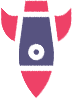
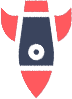
fixed scrolling + changed color of lightmode rocket

diff --git a/src/classes/GameState.ts b/src/classes/GameState.ts
@@ -67,22 +67,19 @@ export default class GameState {
     if (this.keyPress.keys.click.pressed) this.spaceship.shoot();
 
     // handle scroll
-    const distanceFromTopOfDocumentToLastScreen = Math.floor(
-      document.documentElement.scrollHeight -
-        window.innerHeight -
-        window.scrollY
+    const distanceFromTopViewportToBottomOfDoc = Math.floor(
+      document.documentElement.scrollHeight - window.innerHeight
     );
     const translateVal = getTranslateY(this.ROOT_EL);
-    const distanceTraveled = Math.floor(translateVal * -1);
-
+    const yPos = Math.floor(translateVal * -1) + window.scrollY;
     const inBetweenScrollBoundaries =
       this.spaceship.y + this.spaceship.velocity.y > this.scrollBoundary.top &&
       this.spaceship.y + this.spaceship.velocity.y < this.scrollBoundary.bottom;
     const inFirstScreenGoingUp =
-      distanceTraveled <= -window.scrollY &&
+      yPos <= 0 &&
       this.spaceship.y + this.spaceship.velocity.y < this.scrollBoundary.bottom;
     const inLastScreenGoingDown =
-      distanceTraveled === distanceFromTopOfDocumentToLastScreen &&
+      yPos >= distanceFromTopViewportToBottomOfDoc &&
       this.spaceship.y + this.spaceship.velocity.y > this.scrollBoundary.top;
     const belowBottomBoundGoingUp =
       this.spaceship.y > this.scrollBoundary.bottom &&
@@ -90,9 +87,9 @@ export default class GameState {
     const aboveTopBoundGoingDown =
       this.spaceship.y < this.scrollBoundary.top &&
       this.spaceship.velocity.y > 0;
-
     let amountToShift = 0;
     // bullets need to read this amount to see how much to shift as the root element translateY changes
+
     if (
       inBetweenScrollBoundaries ||
       inFirstScreenGoingUp ||
@@ -107,17 +104,18 @@ export default class GameState {
       const newTranslateVal = translateVal - this.spaceship.velocity.y;
 
       if (
-        //if spaceship is above the last page
-        Math.abs(newTranslateVal) < distanceFromTopOfDocumentToLastScreen
+        //if spaceship is above the bottom
+        yPos + this.spaceship.velocity.y <
+        distanceFromTopViewportToBottomOfDoc
       ) {
         this.ROOT_EL.style.transform = `translateY(${newTranslateVal}px)`;
         amountToShift = this.spaceship.velocity.y;
       } else {
-        // need to set the translate value of root element to distanceFromTopOfDocumentToLastScreen bc that's what we read to see if the spaceship can cross the bottom scrollBoundary
-        this.ROOT_EL.style.transform = `translateY(${-distanceFromTopOfDocumentToLastScreen}px)`;
-
-        amountToShift =
-          distanceFromTopOfDocumentToLastScreen - Math.abs(translateVal);
+        // need to set the translate value of root element to distanceFromTopViewportToBottomOfDoc bc that's what we read to see if the spaceship can cross the bottom scrollBoundary
+        this.ROOT_EL.style.transform = `translateY(${-Math.ceil(
+          distanceFromTopViewportToBottomOfDoc - window.scrollY
+        )}px)`;
+        this.spaceship.updateYPosition();
       }
     } else if (
       //spaceship is going to push against top scrollBoundary
@@ -131,6 +129,7 @@ export default class GameState {
         amountToShift = this.spaceship.velocity.y;
       } else {
         this.ROOT_EL.style.transform = `translateY(${window.scrollY}px)`;
+        this.spaceship.updateYPosition();
 
         amountToShift = Math.abs(translateVal);
       }

diff --git a/src/classes/Spaceship.ts b/src/classes/Spaceship.ts
@@ -69,6 +69,8 @@ const drawRoundRect = function (
   }
 };
 
+const DISSIPATION_FACTOR = 0.95;
+
 type DecelerateScalars = Record<Axis, number>;
 export default class Spaceship extends Entity {
   angle: number;
@@ -173,28 +175,28 @@ export default class Spaceship extends Entity {
         case 'top': {
           if (value < 0) {
             this.updateYPosition(0 - value);
-            this.velocity.y = -this.velocity.y;
+            this.velocity.y = -this.velocity.y * DISSIPATION_FACTOR;
           }
           break;
         }
         case 'left': {
           if (value < 0) {
             this.updateXPosition(0 - value);
-            this.velocity.x = -this.velocity.x;
+            this.velocity.x = -this.velocity.x * DISSIPATION_FACTOR;
           }
           break;
         }
         case 'bottom': {
           if (value > bounds.y) {
             this.updateYPosition(bounds.y - value);
-            this.velocity.y = -this.velocity.y;
+            this.velocity.y = -this.velocity.y * DISSIPATION_FACTOR;
           }
           break;
         }
         case 'right': {
           if (value > bounds.x) {
             this.updateXPosition(bounds.x - value);
-            this.velocity.x = -this.velocity.x;
+            this.velocity.x = -this.velocity.x * DISSIPATION_FACTOR;
           }
           break;
         }
@@ -225,6 +227,8 @@ export default class Spaceship extends Entity {
 
     this.velocity.x -= 2.0 * distanceAlongNormal * collisionNormal.x;
     this.velocity.y -= 2.0 * distanceAlongNormal * collisionNormal.y;
+    this.velocity.x *= DISSIPATION_FACTOR;
+    this.velocity.y *= DISSIPATION_FACTOR;
   }
 
   handleCollisionWithRect(boundary: RectBoundary) {
@@ -242,11 +246,11 @@ export default class Spaceship extends Entity {
     }
     if (!collision) return;
     const { displacement, collisionNormal } = collision;
-    this.updateXPosition(displacement.x);
-    this.updateYPosition(displacement.y);
+    this.updateXPosition(-displacement.x);
+    this.updateYPosition(-displacement.y);
     if (Math.abs(collisionNormal!.y) > Math.abs(collisionNormal!.x))
-      this.velocity.y = -this.velocity.y;
-    else this.velocity.x = -this.velocity.x;
+      this.velocity.y = -this.velocity.y * DISSIPATION_FACTOR;
+    else this.velocity.x = -this.velocity.x * DISSIPATION_FACTOR;
   }
 
   updateXPosition(shift = this.velocity.x) {

diff --git a/lib/src/classes/Spaceship.d.ts b/lib/src/classes/Spaceship.d.ts
@@ -1,8 +1,9 @@
-import { Center, MouseInterface, XY } from '../../types/interfaces';
+import { MouseInterface, XY } from '../../types/interfaces';
 import { Axis, Direction } from '../../types/types';
 import { CircleBoundary, RectBoundary } from './boundaries';
 import Bullet from './Bullet';
 import Entity from './Entity';
+import Polygon from './Polygon';
 declare type DecelerateScalars = Record<Axis, number>;
 export default class Spaceship extends Entity {
     angle: number;
@@ -14,8 +15,10 @@ export default class Spaceship extends Entity {
     readonly MAX_SPEED: number;
     velocity: XY;
     readonly IMAGE: HTMLImageElement;
+    readonly CONVEX_POLYGONS: Polygon[];
+    readonly BOUNDING_BOX: Polygon;
+    colliding: boolean;
     constructor({ x, y }: XY, theme: 'dark' | 'light', speed: number);
-    get vertices(): XY[];
     move(dir: Direction): void;
     handleBoundsCollision(bounds: XY): void;
     handleCollisionWithCircle(boundary: CircleBoundary): void;
@@ -23,17 +26,14 @@ export default class Spaceship extends Entity {
     updateXPosition(shift?: number): void;
     updateYPosition(shift?: number): void;
     shoot(): void;
-    getCenter(): Center;
+    getCenter(): XY;
     draw(c: CanvasRenderingContext2D): void;
     drawFlames(c: CanvasRenderingContext2D): void;
     alignToMouse(mouse: MouseInterface): void;
     resetDeceleration(axis: Axis): void;
     decelerate(axis: Axis): void;
     removeBullet(i: number): void;
-    getVertices(angle?: number): XY[];
-    getEdges(): {
-        x: number;
-        y: number;
-    }[][];
+    getVerticesBoundingBox(): XY[];
+    getPolygons(): Polygon[];
 }
 export {};

diff --git a/dist/index.html b/dist/index.html
@@ -14,14 +14,7 @@
       <div class="boundary circle shootable_el"></div>
     </section>
     <section>
-      <div class="boundary abc">
-        Lorem ipsum dolor sit, amet consectetur adipisicing elit. Modi aut id,
-        beatae tempore cupiditate cumque. Ea quaerat similique nobis corrupti
-        quae dicta suscipit rerum itaque officia ratione, atque ad quia placeat
-        maxime assumenda optio natus fugiat commodi. Repellendus id nobis
-        perferendis sint sed iusto, sapiente praesentium sunt maxime dolores
-        debitis.
-      </div>
+      <div class="boundary line"></div>
     </section>
     <section>
       <div class="boundary abc">

diff --git a/lib/types/interfaces.d.ts b/lib/types/interfaces.d.ts
@@ -14,10 +14,6 @@ export interface MouseInterface {
     x: number | null;
     y: number | null;
 }
-export interface Center {
-    xCenter: number;
-    yCenter: number;
-}
 export interface KeysConfig {
     left: KeyboardEvent['key'];
     right: KeyboardEvent['key'];

diff --git a/src/main.ts b/src/main.ts
@@ -163,6 +163,7 @@ export default function run(config: Config) {
     p.speed,
     p.rootEl
   );
+  p.rootEl.style.transform = 'translateY(0)';
   const eventHandlers = getEventHandlers(p.keys)!;
 
   function preventDefault(e: Event) {

diff --git a/dist/test.css b/dist/test.css
@@ -72,3 +72,10 @@ section div {
     transform: rotate(0deg);
   }
 }
+
+.line {
+  width: 500px;
+  height: 13px;
+  background: black;
+  border-radius: 9px;
+}
